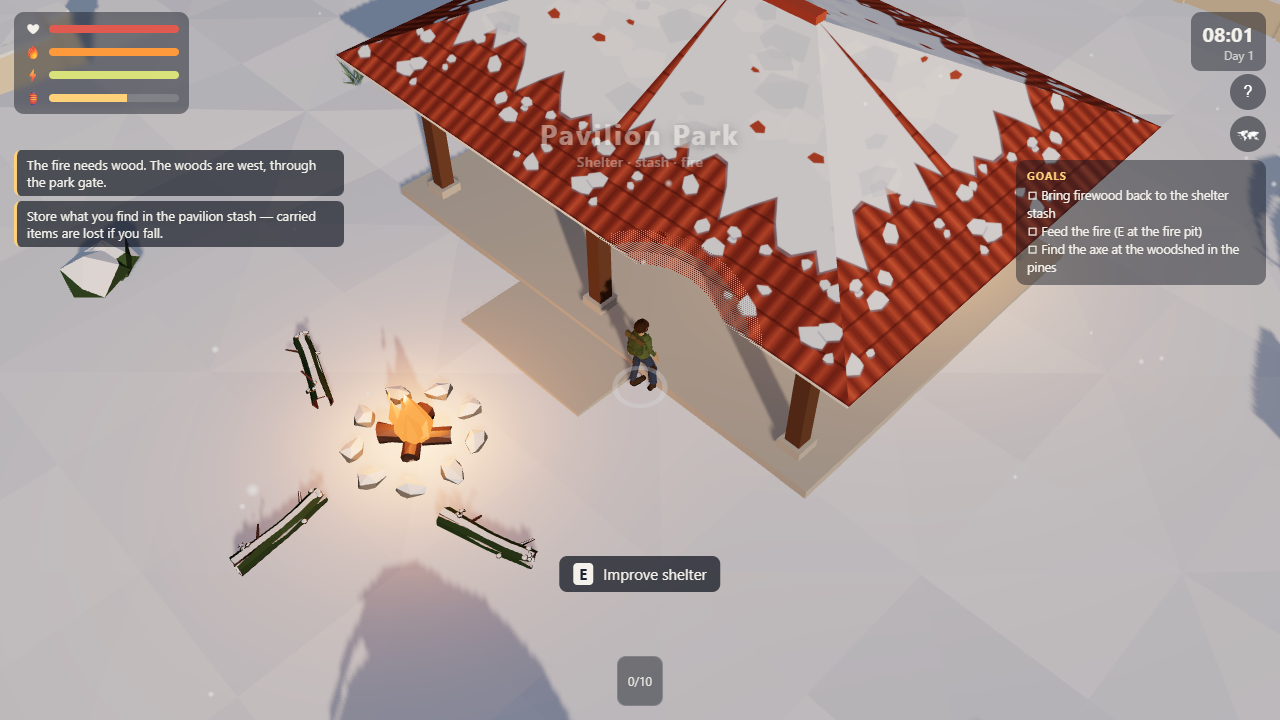
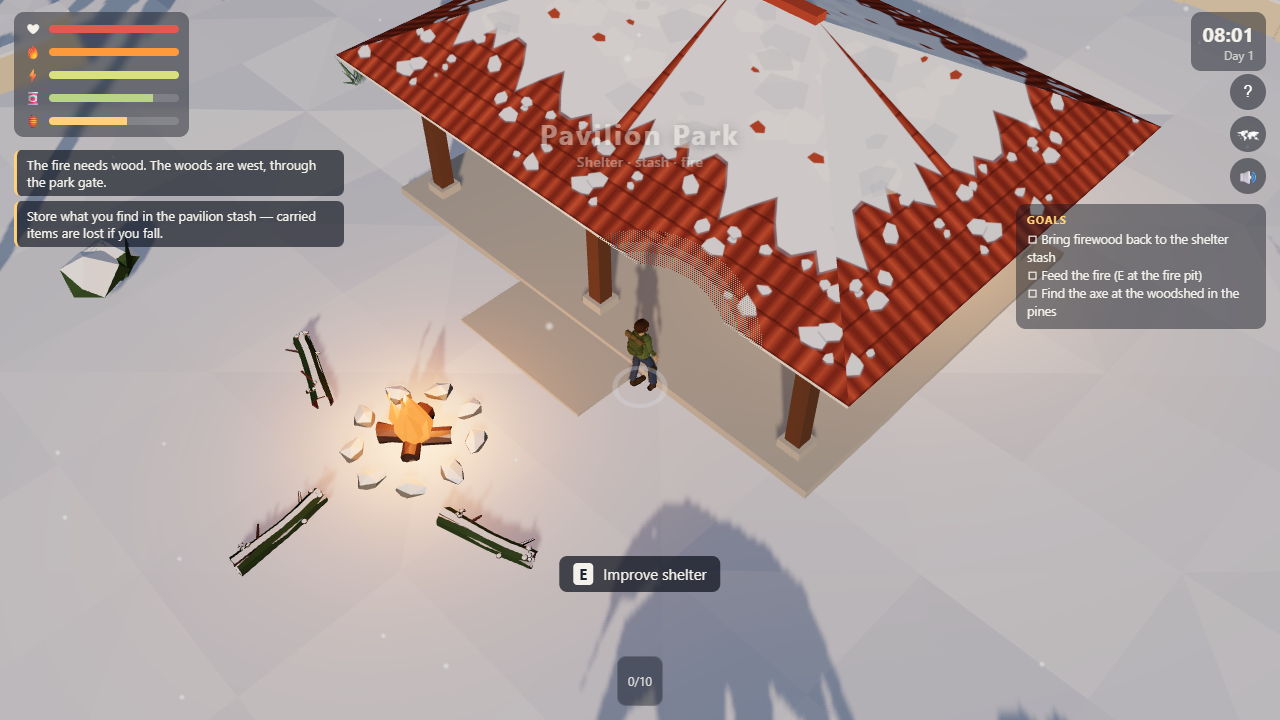
Gentle hunger meter (food matters), mute button, touch HUD spacing

diff --git a/src/main.js b/src/main.js
@@ -212,13 +212,17 @@ class Game {
   updateSurvival(dt) {
     const s = this.player.stats, p = this.player.pos;
     if (this.player.dead) return;
+    // hunger: full to empty in about one in-game day
+    s.food = Math.max(0, (s.food ?? 100) - dt * (100 / 1440));
+    if (s.food <= 0 && !this._hungryWarn) { this._hungryWarn = true; this.ui.toast('Your stomach is empty. Eat something (1) — you tire and chill faster.', 'bad', 5000); }
+    if (s.food > 10) this._hungryWarn = false;
     const nearFire = this.shelter.lit && this.shelter.distToFire(p) < this.shelter.warmZone;
     const sheltered = this.shelter.upgrades.windbreak && this.shelter.inShelter(p);
     if (nearFire) {
       s.warmth = Math.min(100, s.warmth + dt * 7);
       if (s.warmth > 60) s.health = Math.min(100, s.health + dt * 0.6);
     } else if (!sheltered) {
-      let drain = (0.28 + 0.3 * this.daynight.nightness) * (1 + 0.35 * (this.weather?.squall || 0));
+      let drain = (0.28 + 0.3 * this.daynight.nightness) * (1 + 0.35 * (this.weather?.squall || 0)) * ((s.food ?? 100) <= 0 ? 1.25 : 1);
       if (this.player.lanternOn) drain *= 0.75;
       s.warmth = Math.max(0, s.warmth - drain * dt);
     }
@@ -234,7 +238,7 @@ class Game {
   useItem(id) {
     const s = this.player.stats;
     if (!this.inv.count(id)) { if (ITEMS[id]) this.ui.toast(`No ${ITEMS[id].name.toLowerCase()}.`, 'bad'); return; }
-    if (id === 'food') { s.health = Math.min(100, s.health + 25); s.warmth = Math.min(100, s.warmth + 12); this.ui.toast('You eat cold beans. Better. (+health, +warmth)', 'good'); }
+    if (id === 'food') { s.health = Math.min(100, s.health + 20); s.warmth = Math.min(100, s.warmth + 10); s.food = Math.min(100, (s.food ?? 0) + 50); this.ui.toast('You eat cold beans. Better. (+food, +health, +warmth)', 'good'); }
     else if (id === 'water') { s.stamina = 100; s.health = Math.min(100, s.health + 8); this.ui.toast('Icy water. (+stamina)', 'good'); }
     else if (id === 'medkit') { if (s.health >= 100) { this.ui.toast('You are not hurt.', 'info'); return; } s.health = Math.min(100, s.health + 55); this.ui.toast('You patch yourself up. (+health)', 'good'); }
     else if (id === 'oil') { if (s.oil >= 98) { this.ui.toast('The lantern is full.', 'info'); return; } s.oil = Math.min(100, s.oil + 55); this.ui.toast('Lantern refilled.', 'good'); }
@@ -254,7 +258,7 @@ class Game {
       if (items.ammo) { this.inv.add('ammo', 0); }
       this.player.revive();
       this.player.setPosition(START.x, START.z);
-      Object.assign(this.player.stats, { health: 60, warmth: 80, stamina: 100 });
+      Object.assign(this.player.stats, { health: 60, warmth: 80, stamina: 100, food: Math.max(this.player.stats.food ?? 0, 30) });
       if (this.daynight.hour > 7) this.daynight.day++;
       this.daynight.hour = 7.2;
       this.zombies.resetAll();
@@ -271,12 +275,12 @@ class Game {
       const s = this.player.stats;
       if (full) {
         if (this.daynight.hour > 7) this.daynight.day++;
-        this.daynight.hour = 7.0; s.health = 100; s.warmth = 100; s.stamina = 100;
+        this.daynight.hour = 7.0; s.health = 100; s.warmth = 100; s.stamina = 100; s.food = Math.max(0, (s.food ?? 100) - 25);
         this.shelter.fuel = Math.max(0, this.shelter.fuel - 30); if (this.shelter.fuel <= 0) this.shelter.lit = false;
         this.zombies.resetAll();
       } else {
         this.daynight.hour += 2; if (this.daynight.hour >= 24) { this.daynight.hour -= 24; this.daynight.day++; }
-        s.health = Math.min(100, s.health + 20); s.warmth = 100;
+        s.health = Math.min(100, s.health + 20); s.warmth = 100; s.food = Math.max(0, (s.food ?? 100) - 8);
         this.shelter.fuel = Math.max(1, this.shelter.fuel - 15);
       }
       this.daynight.apply(this.player.pos);

diff --git a/src/ui/hud.js b/src/ui/hud.js
@@ -7,12 +7,13 @@ const $ = (id) => document.getElementById(id);
 export class UI {
   constructor(game) {
     this.game = game; this.modal = null; this.lastInv = '';
-    this.el = { health: $('m-health'), warmth: $('m-warmth'), stamina: $('m-stamina'), oil: $('m-oil'), time: $('clock-time'), day: $('clock-day'),
+    this.el = { health: $('m-health'), warmth: $('m-warmth'), stamina: $('m-stamina'), oil: $('m-oil'), food: $('m-food'), time: $('clock-time'), day: $('clock-day'),
       prompt: $('prompt'), progress: $('progress'), progressFill: $('progress-fill'), toasts: $('toasts'), inv: $('inventory'), banner: $('area-banner'),
       reticle: $('reticle'), ammo: $('ammo'), dmg: $('damage-vignette'), cold: $('cold-vignette'), fade: $('fade'), shelter: $('shelter-panel'),
       help: $('help'), map: $('map-overlay'), mapCanvas: $('map-canvas'), debug: $('debug') };
     $('btn-help').onclick = () => this.toggleHelp();
     $('btn-map').onclick = () => this.toggleMap();
+    $('btn-mute').onclick = () => { const on = game.audio.toggleMute(); $('btn-mute').textContent = on ? '🔊' : '🔇'; };
     this.el.map.onclick = () => this.toggleMap(false);
     this.el.inv.addEventListener('click', (e) => { const s = e.target.closest('.slot'); if (s?.dataset.item) game.useItem(s.dataset.item); });
   }
@@ -48,7 +49,7 @@ export class UI {
   update() {
     const g = this.game, s = g.player.stats;
     this.el.health.style.width = `${s.health}%`; this.el.warmth.style.width = `${s.warmth}%`;
-    this.el.stamina.style.width = `${s.stamina}%`; this.el.oil.style.width = `${s.oil}%`;
+    this.el.stamina.style.width = `${s.stamina}%`; this.el.oil.style.width = `${s.oil}%`; this.el.food.style.width = `${s.food ?? 100}%`;
     this.el.time.textContent = g.daynight.timeString(); this.el.day.textContent = `Day ${g.daynight.day}${g.daynight.isNight ? ' · night' : ''}`;
     this.el.cold.style.opacity = Math.max(0, (40 - s.warmth) / 40) * 0.9;
     this.refreshInventory();

diff --git a/src/ui/style.css b/src/ui/style.css
@@ -20,6 +20,11 @@ html, body { margin: 0; height: 100%; overflow: hidden; background: #1b2230; fon
 .meter.warm > div { background: #ff9a3c; }
 .meter.stam > div { background: #d9e27a; }
 .meter.oil > div { background: #ffd27a; }
+.meter.food > div { background: #b9d38a; }
+#btn-mute { top: 158px; }
+#goals { top: 204px !important; }
+body.touch #goals { top: 142px !important; }
+body.touch #toasts { top: 212px; }
 #clock { position: absolute; right: max(14px, env(safe-area-inset-right)); top: max(12px, env(safe-area-inset-top)); background: rgba(15,20,30,.45); padding: 8px 12px; border-radius: 10px; text-align: right; display: flex; flex-direction: column; font-variant-numeric: tabular-nums; }
 #clock-time { font-size: 20px; font-weight: 700; }
 #goals { position: absolute; right: max(14px, env(safe-area-inset-right)); top: 160px; width: 250px; background: rgba(15,20,30,.45); border-radius: 10px; padding: 8px 11px; font-size: 12.5px; line-height: 1.45; }
@@ -70,7 +75,7 @@ body.touch #toasts { top: 178px; max-width: 70vw; }
 .tb.shoot { background: rgba(120,40,30,.55); }
 .tb.small { width: 44px; height: 44px; font-size: 18px; }
 .tb.active { background: rgba(255,180,90,.5); }
-#touch-cam { position: absolute; right: max(18px, env(safe-area-inset-right)); top: 160px; display: flex; flex-direction: column; gap: 8px; pointer-events: auto; }
+#touch-cam { position: absolute; right: max(18px, env(safe-area-inset-right)); top: 206px; display: flex; flex-direction: column; gap: 8px; pointer-events: auto; }
 body.touch #inventory .slot { width: 44px; height: 44px; font-size: 19px; }
 body.touch #prompt { bottom: 250px; }
 body.touch #progress { bottom: 236px; }

diff --git a/index.html b/index.html
@@ -23,6 +23,7 @@
       <div class="stat"><span class="ico">❤</span><div class="meter"><div id="m-health"></div></div></div>
       <div class="stat"><span class="ico">🔥</span><div class="meter warm"><div id="m-warmth"></div></div></div>
       <div class="stat"><span class="ico">⚡</span><div class="meter stam"><div id="m-stamina"></div></div></div>
+      <div class="stat"><span class="ico">🥫</span><div class="meter food"><div id="m-food"></div></div></div>
       <div class="stat" id="lantern-stat"><span class="ico">🏮</span><div class="meter oil"><div id="m-oil"></div></div></div>
     </div>
     <div id="clock"><span id="clock-time">08:00</span><span id="clock-day">Day 1</span></div>
@@ -39,6 +40,7 @@
     <div id="fade"></div>
     <button id="btn-help" class="corner-btn" title="Help (H)">?</button>
     <button id="btn-map" class="corner-btn" title="Map (M)">🗺</button>
+    <button id="btn-mute" class="corner-btn" title="Sound on/off">🔊</button>
   </div>
 
   <div id="touch" class="hidden">
@@ -88,6 +90,7 @@
           <h3>Survival</h3>
           <ul>
             <li>Warmth drains outside — faster at night. Stand by fire to recover.</li>
+            <li>Hunger empties over a day. Eat (1) to keep your strength and body heat up.</li>
             <li>Carried items are lost if you fall. Store them at the shelter stash.</li>
             <li>The lantern lights your way — and lets the frozen see you.</li>
           </ul>

diff --git a/src/systems/player.js b/src/systems/player.js
@@ -34,7 +34,7 @@ export class Player {
     ring.rotation.x = -Math.PI / 2; ring.renderOrder = 10; ring.position.y = 0.05; this.obj.add(ring);
 
     this.pos = this.obj.position; this.yaw = 0; this.vel = new THREE.Vector3();
-    this.stats = { health: 100, warmth: 100, stamina: 100, oil: 60 };
+    this.stats = { health: 100, warmth: 100, stamina: 100, oil: 60, food: 80 };
     this.lanternOn = false;
     this.state = 'idle'; this.stepDist = 0; this.stepSide = 1;
     this.aim = { on: false, focus: 0, target: null, dir: new THREE.Vector3(0, 0, 1) };
@@ -122,7 +122,7 @@ export class Player {
 
     // ---- stamina
     if (sprinting && moving) st.stamina = Math.max(0, st.stamina - dt * 16);
-    else st.stamina = Math.min(100, st.stamina + dt * (moving ? 7 : 14));
+    else st.stamina = Math.min(100, st.stamina + dt * (moving ? 7 : 14) * ((st.food ?? 100) <= 0 ? 0.5 : 1));
 
     // ---- lantern
     if ((input.hit('l') || input.tHit('lantern')) && !g.ui.modal) this.toggleLantern();

diff --git a/src/systems/audio.js b/src/systems/audio.js
@@ -41,6 +41,8 @@ export class Audio {
     o.connect(g); g.connect(this.master); o.start(t); o.stop(t + dur + 0.05);
   }
 
+  toggleMute() { this.muted = !this.muted; if (this.master) this.master.gain.value = this.muted ? 0 : 0.55; return !this.muted; }
+
   update(game) {
     if (!this.ctx) return;
     const n = game.daynight.nightness;

diff --git a/docs/DESIGN.md b/docs/DESIGN.md
@@ -52,6 +52,7 @@ This is the shared record of material decisions for the prototype. The user's vi
 | Walk / sprint speed | 2.7 / 4.8 m/s; ×0.92 in snow off pavement |
 | Stamina | Sprint drains 16/s |
 | Warmth drain outside | 0.28/s by day, up to 0.58/s at night (full to empty in about 3–6 min). The lantern cuts it by 25%. Standing by the fire regains 7/s. At zero warmth, health drops 1.2/s. |
+| Hunger | Drains 100 → 0 over one in-game day (24 min). Food adds 50. When empty, stamina recovers at half speed and warmth drains 25% faster. Sleeping costs 25. |
 | Fire | Burns 0.2 fuel/s (0.12 with the windbreak). Wood adds 22. Relighting costs one match and one wood. |
 | Pack | 10 slots; the hiking backpack adds 6 |
 | Frozen | 3 hp. Speed 1.35 m/s by day, 1.9 at night. They hit for 9 (13 at night) every 1.7 s, and the player gets a 0.7 s grace period after each hit. Sight is 11 m by day, 6 m at night, and 16 m if your lantern is lit. Hearing grows with noise. |
